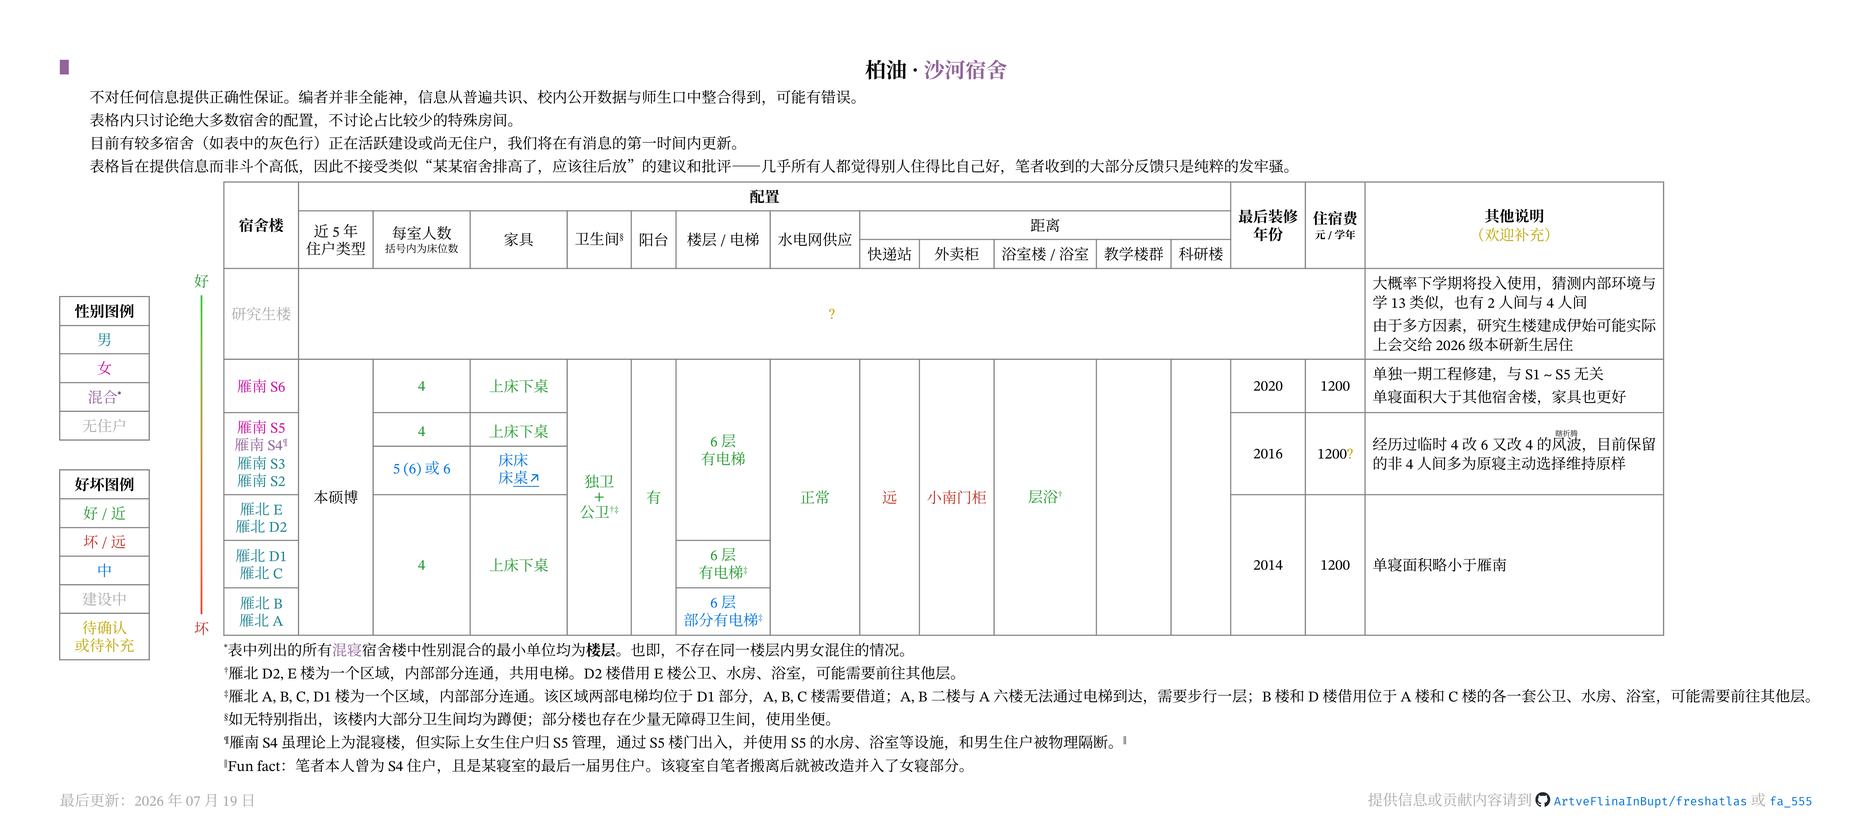
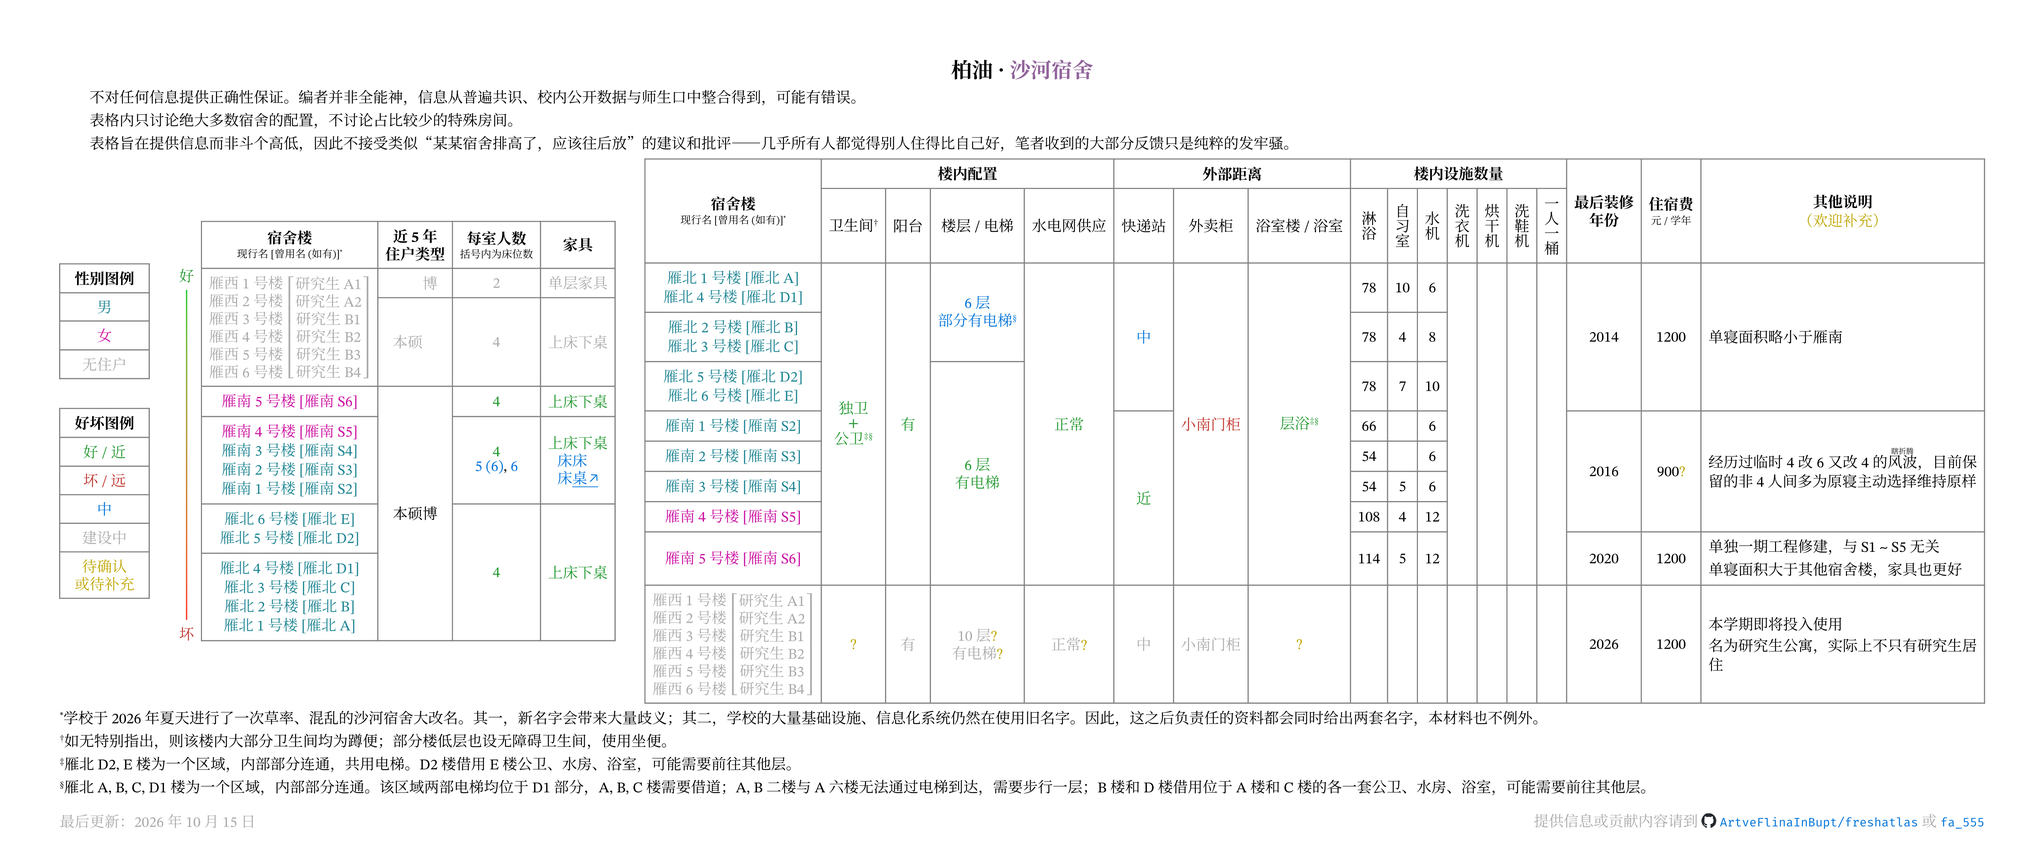
docs: 同步柏油图谱宿舍对比图（沙河 / 本部分图） (#240)
来源：ArtveFlinaInBupt/freshatlas@c19195f24260d7327a329d284ffd04e331f41dee

diff --git a/src/content/docs/海淀校区/住宿条件.md b/src/content/docs/海淀校区/住宿条件.md
@@ -21,34 +21,47 @@ description: 住宿条件
 
 > 图片来源：[BUPT-freshatlas](https://github.com/ArtveFlinaInBupt/freshatlas)，原图含沙河、本部两校区，此处已拆分为仅本部部分。以 CC BY-NC-SA 4.0 提供。
 
-<!-- @byrdocs-bot 上图（海淀/本部宿舍逐楼对比）文字版，供无法读图的助手参考；信息以图片为准。表格纵向按“好→差”排序。颜色含义已转为文字：好/近=优，坏/远=差，中=中等；性别用“男/女/混”标注。脚注用 * † 标记。距离列顺序为：快递站 / 外卖柜 / 浴室 / 教学楼群 / 科研楼。
+<!-- @byrdocs-bot 上图（海淀/本部宿舍逐楼对比）文字版，供无法读图的助手参考；信息以图片为准。图中含两张表：左侧“房型表格”纵向按“好→差”排序（左侧有好→坏渐变条）；右侧“楼宇表格”按楼号排列，逐项给出楼内配置、外部距离与设施数量。颜色含义已转为文字：(好)=好/近，(差)=坏/远，(中)=中，(建设中)=建设中/无住户（灰色），(待确认)=待确认或待补充；性别用“男/女/混”标注，“无住户”表示当前无人居住。脚注用 * † 标记。
 
-逐楼（从好到差）：
-1. 学 13（2 人间）（男）：博；2 人间(好)；上床下桌(好)；公卫(中)；仅有假阳台(中)；5 层无电梯(中)；蜂窝信号奇差、校园网正常(差)；距离：快递远(差) / 外卖西门柜(好) / 浴室远 楼浴尚未启用(差) / 教学中 / 科研远(差)；最后装修 2025；住宿费 750；说明：使用沙河雁南换下的家具。
-2. 学 1（无住户 / 建设中）：全部配置待确认；说明：即将进行翻修，猜测翻修后与学 2 完全相同（它们翻修前就完全相同）。
-3. 学 2（无住户 / 建设中）：住户待确认；4 人(好)；上床下桌(好)；公卫(中)；有阳台(好)；5 层无电梯(中)；水电正常(好)；距离：快递远(差) / 外卖西门柜(好) / 浴室远 层浴尚未启用(差) / 教学近(好) / 科研远(差)；最后装修 2025；住宿费待确认；说明：使用沙河雁南换下的家具。
-4. 学 13（4 人间）（男）：硕；4 人(好)；上床下桌(好)；公卫(中)；仅有假阳台(中)；5 层无电梯(中)；蜂窝信号奇差、校园网正常(差)；距离：快递远(差) / 外卖西门柜(好) / 浴室远 楼浴尚未启用(差) / 教学中 / 科研远(差)；最后装修 2025；住宿费 750；说明：使用沙河雁南换下的家具。
-5. 学 29（女）：仅元本硕博；8 人套间、每室 2～4 人(好)；普通单层床铺桌椅(好)；套间卫生间（坐便）(中)；有阳台(好)；20 层 2 部电梯(中)；水电正常(好)；距离：快递远(差) / 外卖东门柜(好) / 浴室远、有套间浴室但无热水(差) / 教学远(差) / 科研中；最后装修早于 2003；住宿费 1020；说明：曾是家属区眷 29 楼，非典时期作非典塔，后空置，因扩招改为宿舍，高层曾作留学生宿舍，只有一楼有热饮用水。
-6. 学 9 / 学 11（女）：本科；4 人(好)；上床下桌(好)；公卫(中)；无阳台(差)；5 层无电梯(中)；凌晨停冲厕中水(差)；距离：快递近(好) / 外卖北门柜(好) / 浴室中 层浴尚未启用 / 教学远(差) / 科研远(差)；最后装修 2024；住宿费 750；说明：单寝面积很小。
-7. 学 8（混，仅元本+博）：4 人(好)；上床下桌(好)；独卫(中)；有阳台(好)；12 层 2 部电梯(中)；水电正常(好)；距离：快递近(好) / 外卖北门柜(中) / 浴室近、部分寝室有独浴但无热水 / 教学中 / 科研中；最后装修早于 2001；住宿费 1200；说明：部分房间地漏不可用、楼板渗水，搭配独浴和停水忘关水龙头有奇效。
-8. 学 4（4 人间）（女）：博；4 人(好)；上床下桌(好)；独卫(中)；有阳台(好)；12 层 2 部电梯(中)；水电正常(好)；距离：快递中 / 外卖北门柜、西门柜 / 浴室中、部分独浴但无热水 / 教学中 / 科研远(差)；最后装修早于 2001（与学 8 合并单元格）；住宿费 850。
-9. 学 3（混）/ 学 5（男）：本硕；6 人(中)；上床下桌(好)；公卫(差)；有阳台(好)；15 层 2 部电梯(差)；凌晨停冲厕中水(差)；距离：快递中 / 外卖北门柜、西门柜(中) / 浴室中 / 教学中 / 科研远(差)；最后装修 2004；住宿费 900；说明：均摊千人一部电梯、等待时间极长；除一楼和顶楼外层高很低，床上难以坐直。
-10. 学 10（男）：本硕博；6 人(中)；上床下桌(好)；公卫(中)；有阳台(好)；15 层 7 部电梯(中)；水电正常(好)；距离：快递近(好) / 外卖北门柜(好) / 浴室近(中) / 教学远(差) / 科研中；最后装修 2011；住宿费 900；说明：楼道内通风、采光差；无夜间门禁。
-11. 学 6（4 人间）（男）：本科；4 人（床位6）(中)；上下铺(差)；独卫(差)；除一楼外有阳台；6 层无电梯(差)；年均一次夏季停电(差)；距离：快递近(好) / 外卖科研楼柜(好) / 浴室近(中) / 教学远(差) / 科研近(好)；最后装修 2003；住宿费 1020；说明：有翻修计划，正在方案设计阶段。
-12. 学 4（6 人间）（女）：本硕；6 人(中)；上下铺(差)；独卫(中)；有阳台(好)；12 层 2 部电梯(中)；水电正常(好)；距离：快递中 / 外卖北门柜、西门柜(中) / 浴室中、部分独浴但无热水 / 教学中 / 科研远(差)；最后装修早于 2001；住宿费 850；说明：单寝面积略大于学 6，有与学 8 相同的所有问题。
-13. 学 6（6 人间）（男）：本科；6 人(中)；上下铺(差)；独卫(差)；除一楼外有阳台；6 层无电梯(差)；年均一次夏季停电(差)；距离：快递近(好) / 外卖科研楼柜(好) / 浴室近(中) / 教学远(差) / 科研近(好)；最后装修 2003；住宿费 1020；说明：有翻修计划，正在方案设计阶段。
+房型表格（从好到差；列：近 5 年住户类型 / 每室人数（括号内为床位数） / 家具）：
+1. 学 13（2 人间）（男）：博；2 人(好)；上床下桌(好)。
+2. 学 1（无住户）/ 学 2（男）：硕博；4 人(好)；上床下桌(好)。
+3. 学 13（4 人间）（男）：硕；4 人(好)；上床下桌(好)。
+4. 学 29（女）：元硕博；8 人套间，每室 2～4 人(好)；单层家具(好)。
+5. 学 9 / 学 11（女）：本；4 人(好)；上床下桌(好)。
+6. 学 8（混*）：元、博；4 人(好)；上床下桌(好)。
+7. 学 4（4 人间）（女）：博；4 人(好)；上床下桌(好)。
+8. 学 3（混*）/ 学 5（男）：本硕（其中本科住户为男生）；6 人(中)；上床下桌(好)。
+9. 学 10（男）：本硕博；6 人(中)；上床下桌(好)。
+10. 学 6（4 人间）（男）：本；4 人（6 床位）(中)；上下铺(差)。
+11. 学 4（6 人间）（女）：本硕；6 人(中)；上下铺(差)。
+12. 学 6（6 人间）（男）：本；6 人(中)；上下铺(差)。
+
+楼宇表格（列：卫生间† / 阳台 / 楼层与电梯 / 水电网供应 | 快递站 / 外卖柜 / 浴室楼或浴室 | 楼内设施数量：水机 / 洗衣机 / 烘干机 / 洗鞋机 / 一人一桶（淋浴、自习室两列本部均未填） | 最后装修年份 / 住宿费（元/学年） / 其他说明）：
+1. 学 1（无住户）：公卫(中)；有阳台(好)；5 层无电梯(中)；水电网正常(好，待确认)；快递站远(差)；外卖西门柜(好)；浴室远(差)，楼浴尚未启用(建设中)；水机 5，洗衣机 5，烘干机 1，洗鞋机 1，一人一桶 1；最后装修 2026；住宿费 750；说明：内部与学 2 完全相同；翻修中。
+2. 学 2（男）：公卫(中)；有阳台(好)；5 层无电梯(中)；水电网正常(好，待确认)；快递站远(差)；外卖西门柜(好)；浴室远(差)，楼浴尚未启用(建设中)；水机 5，洗衣机 5，烘干机 1，洗鞋机 1，一人一桶 1；最后装修 2025；住宿费 750；说明：内部与学 1 完全相同。
+3. 学 3（混）：公卫(差)；有阳台(好)；15 层 2 部电梯(差)；凌晨停冲厕中水(差)；快递站中(中)；外卖北门柜、西门柜(中)；浴室中(中)；水机 15，洗衣机 20，烘干机 3，洗鞋机 5，一人一桶 4；最后装修 2004；住宿费 900；说明：内部与学 5 互为镜像；除一楼和顶楼外层高很低、床上难以坐直(差)；桌子非常大(好)。
+4. 学 4（女）：独卫(差)；有阳台(好)；12 层 2 部电梯(中)；水电网正常(好)；快递站中(中)；外卖北门柜、西门柜(中)；浴室中(中)，部分寝室有独浴(中)但无热水(差)；水机 12，洗衣机 22，烘干机 7，洗鞋机 3，一人一桶 3；最后装修早于 2001(待确认)；住宿费 850；说明：内部与学 8 互为镜像；单寝面积大于学 6。
+5. 学 5（男）：公卫(差)；有阳台(好)；15 层 2 部电梯(差)；凌晨停冲厕中水(差)；快递站中(中)；外卖北门柜、西门柜(中)；浴室中(中)；水机 15，洗衣机 20，烘干机 3，洗鞋机 4，一人一桶 4；最后装修 2004；住宿费 900；说明：内部与学 3 互为镜像；除一楼和顶楼外层高很低、床上难以坐直(差)；桌子非常大(好)；电梯等待时间极长(差)。
+6. 学 6（男）：独卫(差)；阳台除一楼(差)外有(好)；6 层无电梯(中)；年均一次夏季停电(差)；快递站近(好)；外卖科研楼柜(好)；浴室中(中)；水机 6，洗衣机 20，烘干机 7，洗鞋机 4，一人一桶 2；最后装修 2003；住宿费 1020；说明：有翻修计划，正在方案设计阶段。
+7. 学 8（混）：独卫(差)；有阳台(好)；12 层 2 部电梯(中)；水电网正常(好)；快递站近(好)；外卖北门柜(中)；浴室近(中)，部分寝室有独浴(中)但无热水(差)；水机 12，洗衣机 12，烘干机 3，洗鞋机 3，一人一桶 3；最后装修早于 2001(待确认)；住宿费 1200；说明：内部与学 4 互为镜像。
+8. 学 9（女）：公卫(中)；仅有假阳台(中)；5 层无电梯(中)；凌晨停冲厕中水(差)；快递站近(好)；外卖北门柜(好)；浴室中(中)，层浴尚未启用(建设中)；水机 5，洗衣机 5，烘干机 3，洗鞋机、一人一桶未填；最后装修 2024；住宿费 750；说明无。
+9. 学 10（男）：公卫(中)；有阳台(好)；15 层 7 部电梯(中)；水电网正常(好)；快递站近(好)；外卖北门柜(好)；浴室近(中)；水机 17，洗衣机 52，烘干机 11，洗鞋机 8，一人一桶 4；最后装修 2011；住宿费 900；说明：可参考北邮人论坛（https://bbs.byr.cn/#!article/Picture/3382014）；楼道内通风、采光差(差)；事实上无夜间门禁。
+10. 学 11（女）：公卫(中)；仅有假阳台(中)；5 层无电梯(中)；凌晨停冲厕中水(差)；快递站近(好)；外卖北门柜(好)；浴室中(中)，层浴尚未启用(建设中)；水机 5，洗衣机 5，烘干机 3，洗鞋机、一人一桶未填；最后装修 2024；住宿费 750；说明无。
+11. 学 13（男）：公卫(中)；仅有假阳台(中)；5 层无电梯(中)；蜂窝信号奇差(差)（校园网正常）；快递站远(差)；外卖西门柜(好)；浴室远(差)，楼浴尚未启用(建设中)；水机 10，洗衣机 10，烘干机 5，洗鞋机 2，一人一桶 3；最后装修 2025；住宿费 750；说明无。
+12. 学 29（女）：套间卫生间（坐便）(中)；有阳台(好)；20 层 2 部电梯(中)；水电网正常(好，待确认)；快递站远(差)；外卖东门柜(好)；浴室远(差)，有套间浴室(中)但无热水；水机 20，洗衣机 14，烘干机 4，洗鞋机 1，一人一桶 1；最后装修早于 2003(待确认)；住宿费 1020；说明：可参考北邮人论坛（https://bbs.byr.cn/#!article/Picture/3377378）。
 
 脚注：
-* 表中所有混寝楼性别混合的最小单位均为“楼层”，不存在同一楼层男女混住。
-† 如无特别指出，楼内大部分卫生间均为蹲便；部分楼也存在少量无障碍卫生间，使用坐便。
+* 表中列出的所有混寝宿舍楼中性别混合的最小单位均为楼层。也即，不存在同一楼层内男女混住的情况。
+† 如无特别指出，则该楼内大部分卫生间均为蹲便；部分楼低层也设无障碍卫生间，使用坐便。
 
 特殊房间（仅说明与其他房间不同之处）：
-- 学 3 大 6 人间：更大空间，无阳台，有超大落地窗。
+- 学 3 大 6 人间：更大的空间，无阳台，有超大落地窗。
 - 学 4 10 人间：10 人（5 张上下铺），多个房间，无阳台。
-- 学 5 10 人间：10 人（5 张上下铺），更大空间，无阳台。
+- 学 5 10 人间：10 人（5 张上下铺），更大的空间，无阳台。
 - 学 6 套间：由 3 个普通房间合成，另有一个客厅。
-- 学 10 大 6 人间：更大空间。
-- 学 13 有阳台房间：2 人间和 4 人间均存在；阳台大小不一，兼有假阳台。
+- 学 10 大 6 人间：更大的空间。
+- 学 13 有阳台房间：2 人间和 4 人间均存在；阳台大小不一，同时兼有假阳台。
 -->
 
 ## 宿舍外环境

diff --git a/src/content/docs/沙河校区/住宿条件.md b/src/content/docs/沙河校区/住宿条件.md
@@ -25,23 +25,34 @@ description: 住宿条件
 
 > 图片来源：[BUPT-freshatlas](https://github.com/ArtveFlinaInBupt/freshatlas)，原图含沙河、本部两校区，此处已拆分为仅沙河部分。以 CC BY-NC-SA 4.0 提供。
 
-<!-- @byrdocs-bot 上图（沙河宿舍逐楼对比）文字版，供无法读图的助手参考；信息以图片为准。表格纵向按“好→差”排序。颜色含义已转为文字：好/近=优，坏/远=差，中=中等；性别用“男/女/混”标注。脚注用 * † ‡ § ‖ ¶ 标记。距离含快递站 / 外卖柜 / 浴室 / 教学楼群 / 科研楼。
+<!-- @byrdocs-bot 上图（沙河宿舍逐楼对比）文字版，供无法读图的助手参考；信息以图片为准。图中含两张表：左侧“房型表格”纵向按“好→差”排序（左侧有好→坏渐变条）；右侧“楼宇表格”按楼栋区域排列，逐项给出楼内配置、外部距离与设施数量。颜色含义已转为文字：(好)=好/近，(差)=坏/远，(中)=中，(建设中)=建设中/无住户（灰色，未评好坏），(待确认)=待确认或待补充；性别用“男/女”标注，“无住户”表示尚未入住。脚注用 * † ‡ § 标记。
 
-逐楼（从好到差）：
-1. 研究生楼（无住户 / 建设中）：全部配置待确认；说明：大概率下学期将投入使用，猜测内部环境与学 13 类似，也有 2 人间与 4 人间；由于多方因素，研究生楼建成伊始可能实际上会交给 2026 级本研新生居住。
-2. 雁南 S6（女）：本硕博；每室 4 人(好)；上床下桌(好)；独卫+公卫(好)†‡；有阳台(好)；6 层有电梯(好)；水电网正常(好)；快递站远(差)；外卖小南门柜(差)；层浴(好)†；教学楼群、科研楼未标注；最后装修 2020；住宿费 1200；说明：单独一期工程修建，与 S1～S5 无关；单寝面积大于其他宿舍楼，家具也更好。
-3. 雁南 S5（女）/ 雁南 S4（混）‖ / 雁南 S3、S2（男）：本硕博；每室人数 4 人(好) 或 5(床位6)或6 人(中)；家具 上床下桌(好) 或 床床/床桌混合(中)；独卫+公卫(好)†‡；有阳台(好)；6 层有电梯(好)；水电网正常(好)；快递站远(差)；外卖小南门柜(差)；层浴(好)†；最后装修 2016；住宿费 1200（待确认）；说明：经历过临时 4 改 6 又改 4 的瞎折腾，目前保留的非 4 人间多为原寝主动选择维持原样。
-4. 雁北 E / 雁北 D2（男）：每室 4 人(好)；上床下桌(好)；独卫+公卫(好)†‡；有阳台(好)；6 层有电梯(好)；水电网正常(好)；快递站远(差)；外卖小南门柜(差)；层浴(好)†；最后装修 2014；住宿费 1200；说明：单寝面积略小于雁南。
-5. 雁北 D1 / 雁北 C（男）：配置同上；6 层有电梯(好)‡；最后装修 2014；住宿费 1200；单寝面积略小于雁南。
-6. 雁北 B / 雁北 A（男）：配置同上；6 层部分有电梯(中)‡；最后装修 2014；住宿费 1200；单寝面积略小于雁南。
+房型表格（从好到差；列：近 5 年住户类型 / 每室人数（括号内为床位数） / 家具）：
+1. 雁西 1～6 号楼 [研究生 A1、A2、B1、B2、B3、B4]（无住户，整行建设中）：分两类房型：博，2 人，单层家具；本硕，4 人，上床下桌。
+2. 雁南 5 号楼 [雁南 S6]（女）：本硕博；4 人(好)；上床下桌(好)。
+3. 雁南 4 号楼 [雁南 S5]（女）、雁南 3 号楼 [雁南 S4]（男）、雁南 2 号楼 [雁南 S3]（男）、雁南 1 号楼 [雁南 S2]（男）：本硕博；4 人(好)，或 5 人（6 床位）、6 人(中)；家具为上床下桌(好)，或床床 / 床桌(中)。
+4. 雁北 6 号楼 [雁北 E]、雁北 5 号楼 [雁北 D2]（男）：本硕博；4 人(好)；上床下桌(好)。
+5. 雁北 4 号楼 [雁北 D1]、雁北 3 号楼 [雁北 C]、雁北 2 号楼 [雁北 B]、雁北 1 号楼 [雁北 A]（男）：本硕博；4 人(好)；上床下桌(好)。
+
+楼宇表格（列：卫生间† / 阳台 / 楼层与电梯 / 水电网供应 | 快递站 / 外卖柜 / 浴室楼或浴室 | 楼内设施数量：淋浴 / 自习室 / 水机 / 洗衣机 / 烘干机 / 洗鞋机 / 一人一桶 | 最后装修年份 / 住宿费（元/学年） / 其他说明）：
+- 雁北、雁南（S2～S6）共同配置：卫生间为独卫 + 公卫(好)‡§；有阳台(好)；水电网正常(好)；外卖柜为小南门柜(差)；浴室为层浴(好)‡§；洗衣机、烘干机、洗鞋机、一人一桶数量未填。
+- 楼层与电梯：雁北 A、D1、B、C 为 6 层、部分有电梯(中)§；雁北 D2、E 及雁南 S2～S6 为 6 层、有电梯(好)。
+- 快递站：雁北 A、D1、B、C、D2、E 为中(中)；雁南 S2～S6 为近(好)。
+1. 雁北 1 号楼 [雁北 A] + 雁北 4 号楼 [雁北 D1]（男）：淋浴 78，自习室 10，水机 6；最后装修 2014；住宿费 1200；说明：单寝面积略小于雁南。
+2. 雁北 2 号楼 [雁北 B] + 雁北 3 号楼 [雁北 C]（男）：淋浴 78，自习室 4，水机 8；最后装修 2014；住宿费 1200；说明同上。
+3. 雁北 5 号楼 [雁北 D2] + 雁北 6 号楼 [雁北 E]（男）：淋浴 78，自习室 7，水机 10；最后装修 2014；住宿费 1200；说明同上。
+4. 雁南 1 号楼 [雁南 S2]（男）：淋浴 66，自习室未填，水机 6；最后装修 2016；住宿费 900(待确认)；说明：经历过临时 4 改 6 又改 4 的瞎折腾（风波），目前保留的非 4 人间多为原寝主动选择维持原样（S2～S5 共用此说明）。
+5. 雁南 2 号楼 [雁南 S3]（男）：淋浴 54，自习室未填，水机 6；最后装修 2016；住宿费 900(待确认)。
+6. 雁南 3 号楼 [雁南 S4]（男）：淋浴 54，自习室 5，水机 6；最后装修 2016；住宿费 900(待确认)。
+7. 雁南 4 号楼 [雁南 S5]（女）：淋浴 108，自习室 4，水机 12；最后装修 2016；住宿费 900(待确认)。
+8. 雁南 5 号楼 [雁南 S6]（女）：淋浴 114，自习室 5，水机 12；最后装修 2020；住宿费 1200；说明：单独一期工程修建，与 S1～S5 无关；单寝面积大于其他宿舍楼，家具也更好。
+9. 雁西 1～6 号楼 [研究生 A1、A2、B1、B2、B3、B4]（无住户，建设中）：卫生间(待确认)；有阳台(建设中)；10 层(待确认)、有电梯(待确认)；水电网正常(待确认)；快递站中(建设中)；外卖柜小南门柜(建设中)；浴室(待确认)；设施数量均未填；最后装修 2026；住宿费 1200；说明：本学期即将投入使用；名为研究生公寓，实际上不只有研究生居住。
 
 脚注：
-* 表中所有混寝楼性别混合的最小单位均为“楼层”，不存在同一楼层男女混住。
-† 雁北 D2、E 为一个区域，内部部分连通、共用电梯；D2 借用 E 的公卫/水房/浴室，可能需前往其他层。
-‡ 雁北 A、B、C、D1 为一个区域，内部部分连通；两部电梯均位于 D1，A/B/C 需借道；A、B 二楼与 A 六楼无法乘电梯到达、需步行一层；B、D 借用位于 A、C 的各一套公卫/水房/浴室。
-§ 如无特别指出，楼内大部分卫生间均为蹲便；部分楼也存在少量无障碍卫生间，使用坐便。
-‖ 雁南 S4 虽理论上为混寝楼，但实际上女生住户归 S5 管理，通过 S5 楼门出入，并使用 S5 的水房、浴室等设施，与男生住户被物理隔断。¶
-¶ Fun fact：笔者本人曾为 S4 住户，且是某寝室的最后一届男住户；该寝室自笔者搬离后就被改造并入了女寝部分。
+* 学校于 2026 年夏天进行了一次草率、混乱的沙河宿舍大改名。其一，新名字会带来大量歧义；其二，学校的大量基础设施、信息化系统仍然在使用旧名字。因此图中同时给出两套名字：现行名 [曾用名]。
+† 如无特别指出，则该楼内大部分卫生间均为蹲便；部分楼低层也设无障碍卫生间，使用坐便。
+‡ 雁北 D2、E 楼为一个区域，内部部分连通，共用电梯。D2 楼借用 E 楼公卫、水房、浴室，可能需要前往其他层。
+§ 雁北 A、B、C、D1 楼为一个区域，内部部分连通。该区域两部电梯均位于 D1 部分，A、B、C 楼需要借道；A、B 二楼与 A 六楼无法通过电梯到达，需要步行一层；B 楼和 D 楼借用位于 A 楼和 C 楼的各一套公卫、水房、浴室，可能需要前往其他层。
 -->
 
 ## 宿舍内环境
